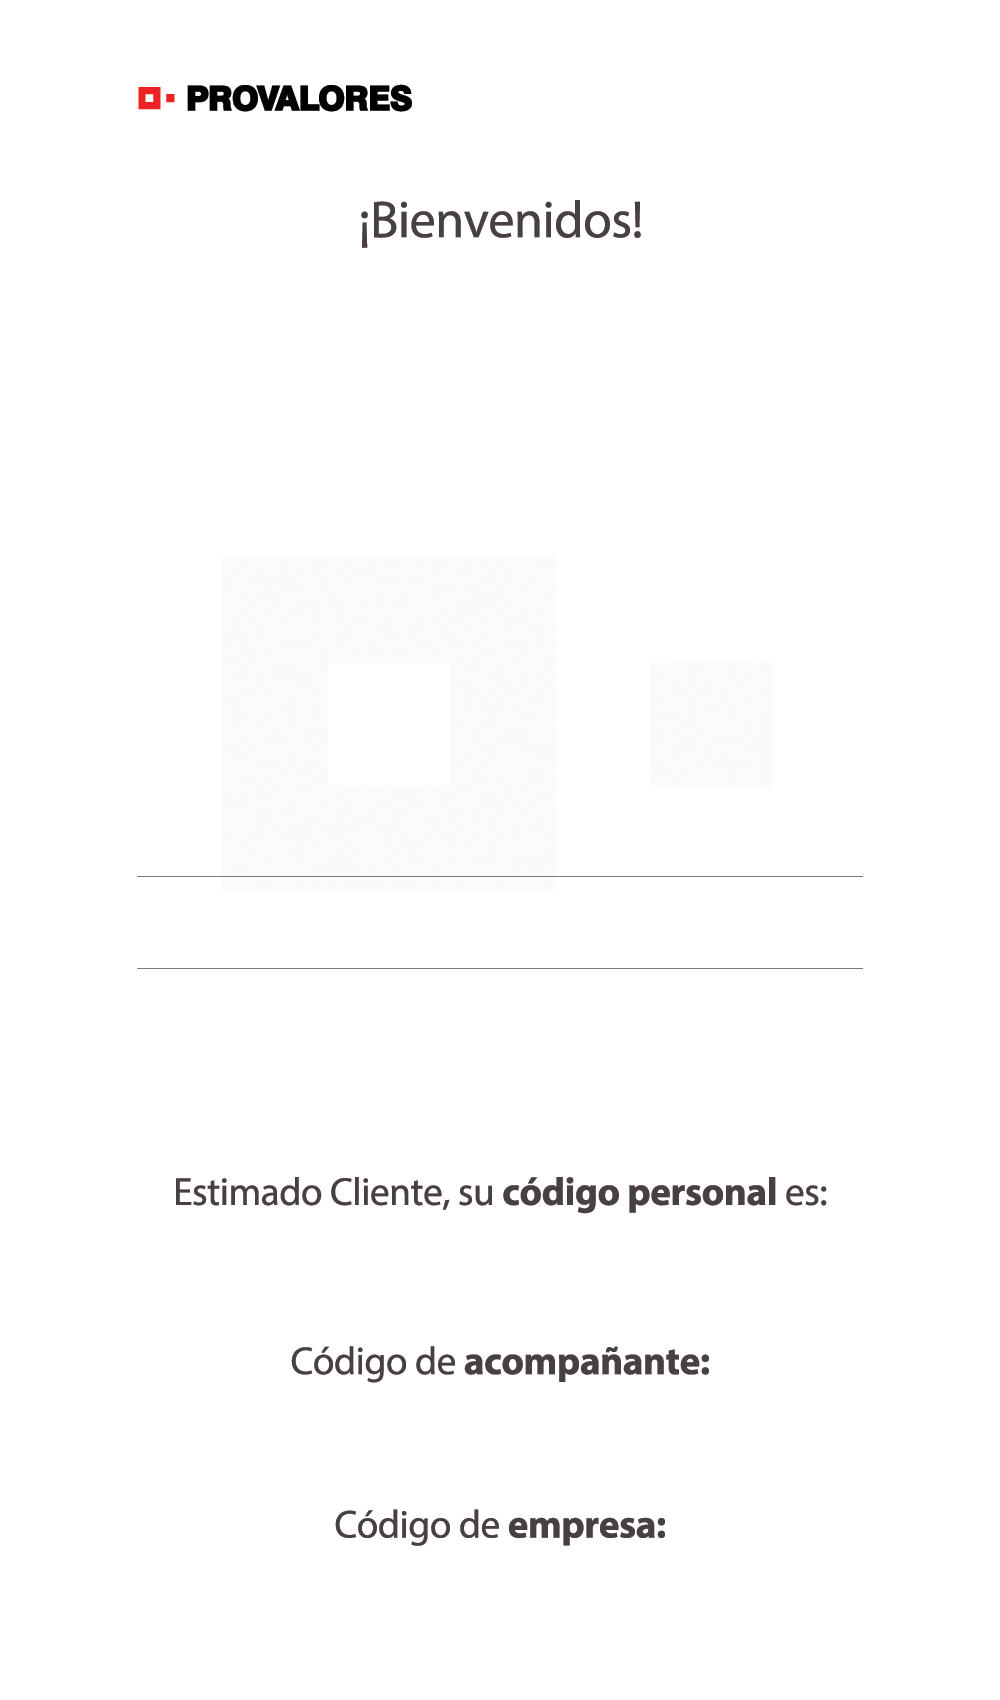
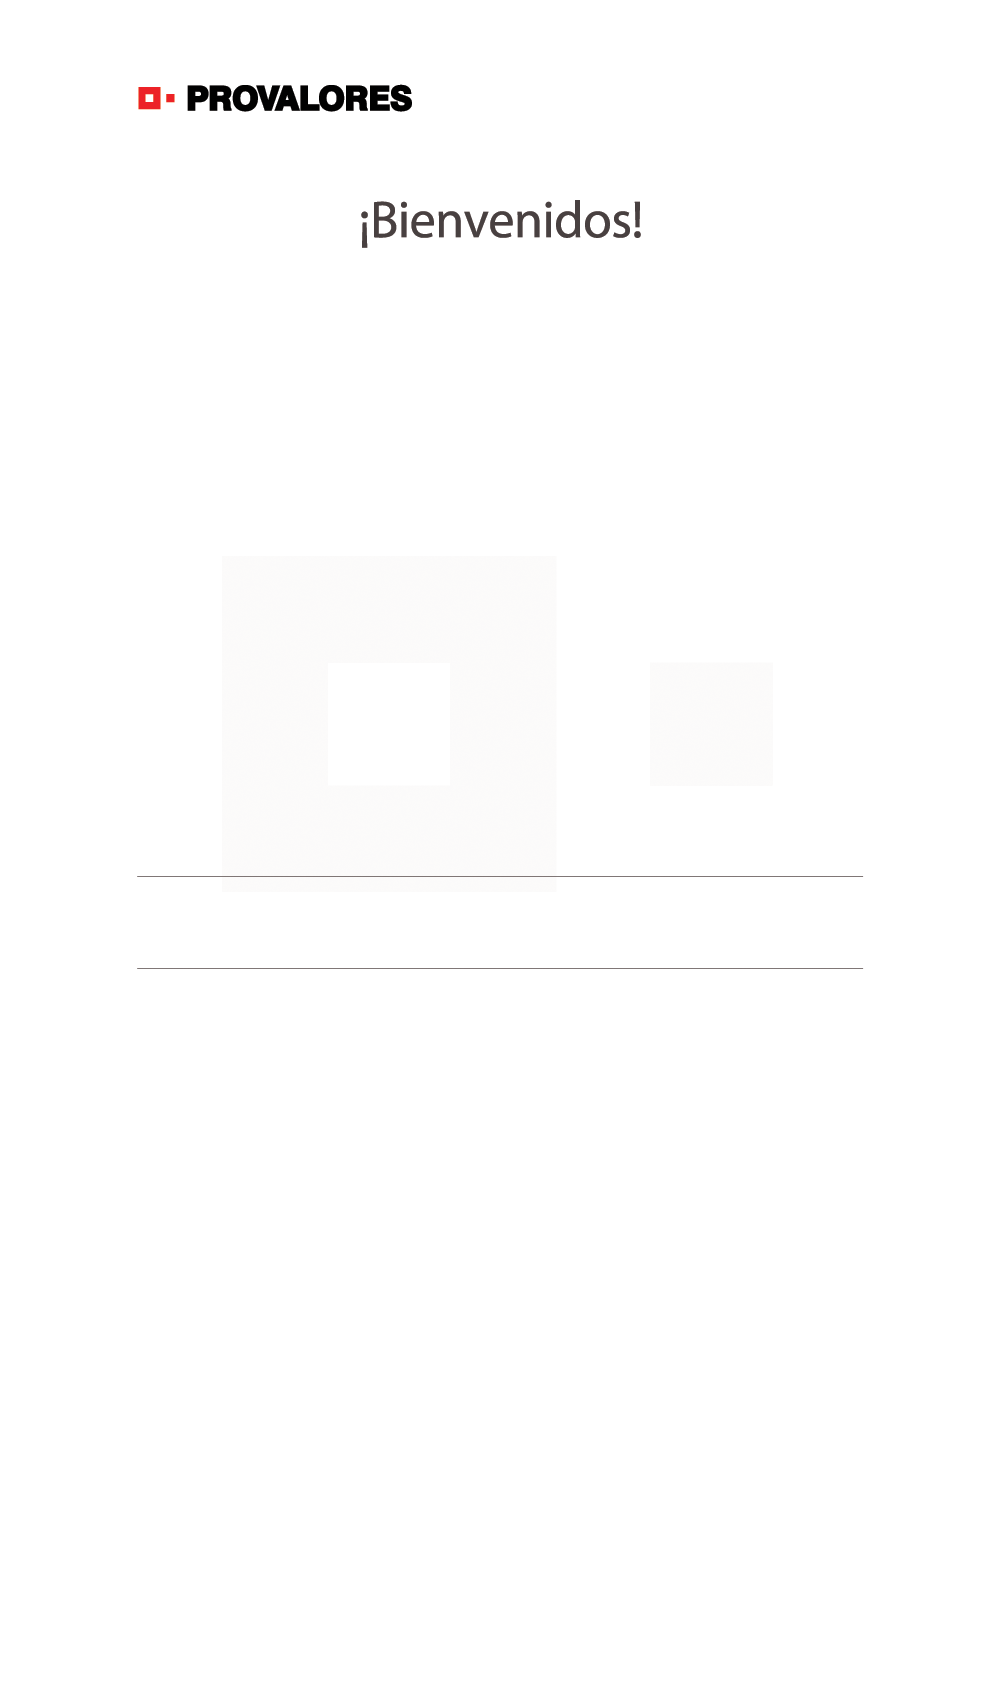
ajustar campos no obligatorios

Changed region(s): [[0.155, 0.6859, 0.837, 0.7171], [0.279, 0.7794, 0.713, 0.8106], [0.341, 0.8729, 0.682, 0.9041]]

diff --git a/webs/ticket-turnos-provalores/canvasFunctions.js b/webs/ticket-turnos-provalores/canvasFunctions.js
@@ -132,13 +132,29 @@ const renderTicketData = (ctx, ticketData) => {
         ctx.fillText(ticketData.expirationTime, 137 + lineHeaderWidth, 1029);
 
     //Código de turno
-    ctx.font = 'normal 65px myriad-pro';
     ctx.textAlign = 'center';
+
+    ctx.font = 'bold 40px myriad-pro';
+    ctx.fillText('Estimado Cliente, su código personal es:', 500, 1280 - 80);
+
+    ctx.font = 'normal 65px myriad-pro';
     ctx.fillText(`- ${ticketData.ticketCode1} -`, 500, 1280);
 
-    ctx.fillText(`- ${ticketData.ticketCode2} -`, 500, 1280 + 175);
+    if(ticketData.ticketCode2){
+        ctx.font = 'bold 40px myriad-pro';
+        ctx.fillText('Su código de acompañante es:', 500, 1280 + 175 - 80);
+    
+        ctx.font = 'normal 65px myriad-pro';
+        ctx.fillText(`- ${ticketData.ticketCode2} -`, 500, 1280 + 175);
+    }
 
-    ctx.fillText(`- ${ticketData.ticketCode3} -`, 500, 1280 + 175*2);
+    if(ticketData.ticketCode3){
+        ctx.font = 'bold 40px myriad-pro';
+        ctx.fillText('Su código de empresa es:', 500, 1280 + 175*2 - 80);
+    
+        ctx.font = 'normal 65px myriad-pro';
+        ctx.fillText(`- ${ticketData.ticketCode3} -`, 500, 1280 + 175*2);
+    }
 
 }
 

diff --git a/webs/ticket-turnos-provalores/functions.js b/webs/ticket-turnos-provalores/functions.js
@@ -50,9 +50,13 @@ const processFormData = (formData) => {
     ticketData.appointmentTime = formData['input-time'];
     ticketData.expirationTime = formData['input-max-time'];
     ticketData.ticketCode1 = randomLetters(3) + ' ' + formData['input-ticket-number-1'];
-    ticketData.ticketCode2 = randomLetters(3) + ' ' + formData['input-ticket-number-2'];
-    ticketData.ticketCode3 = randomLetters(3) + ' ' + formData['input-ticket-number-3'];
-
+    if(formData['input-ticket-number-2']){
+        ticketData.ticketCode2 = randomLetters(3) + ' ' + formData['input-ticket-number-2'];
+    }
+    if(formData['input-ticket-number-3']){
+        ticketData.ticketCode3 = randomLetters(3) + ' ' + formData['input-ticket-number-3'];
+    }
+    
     //Nombre
     ticketData.firstName = splitSentence(formData['input-name-1'].toUpperCase(), 20);
     ticketData.secondName = splitSentence(formData['input-name-2'].toUpperCase(), 20);
